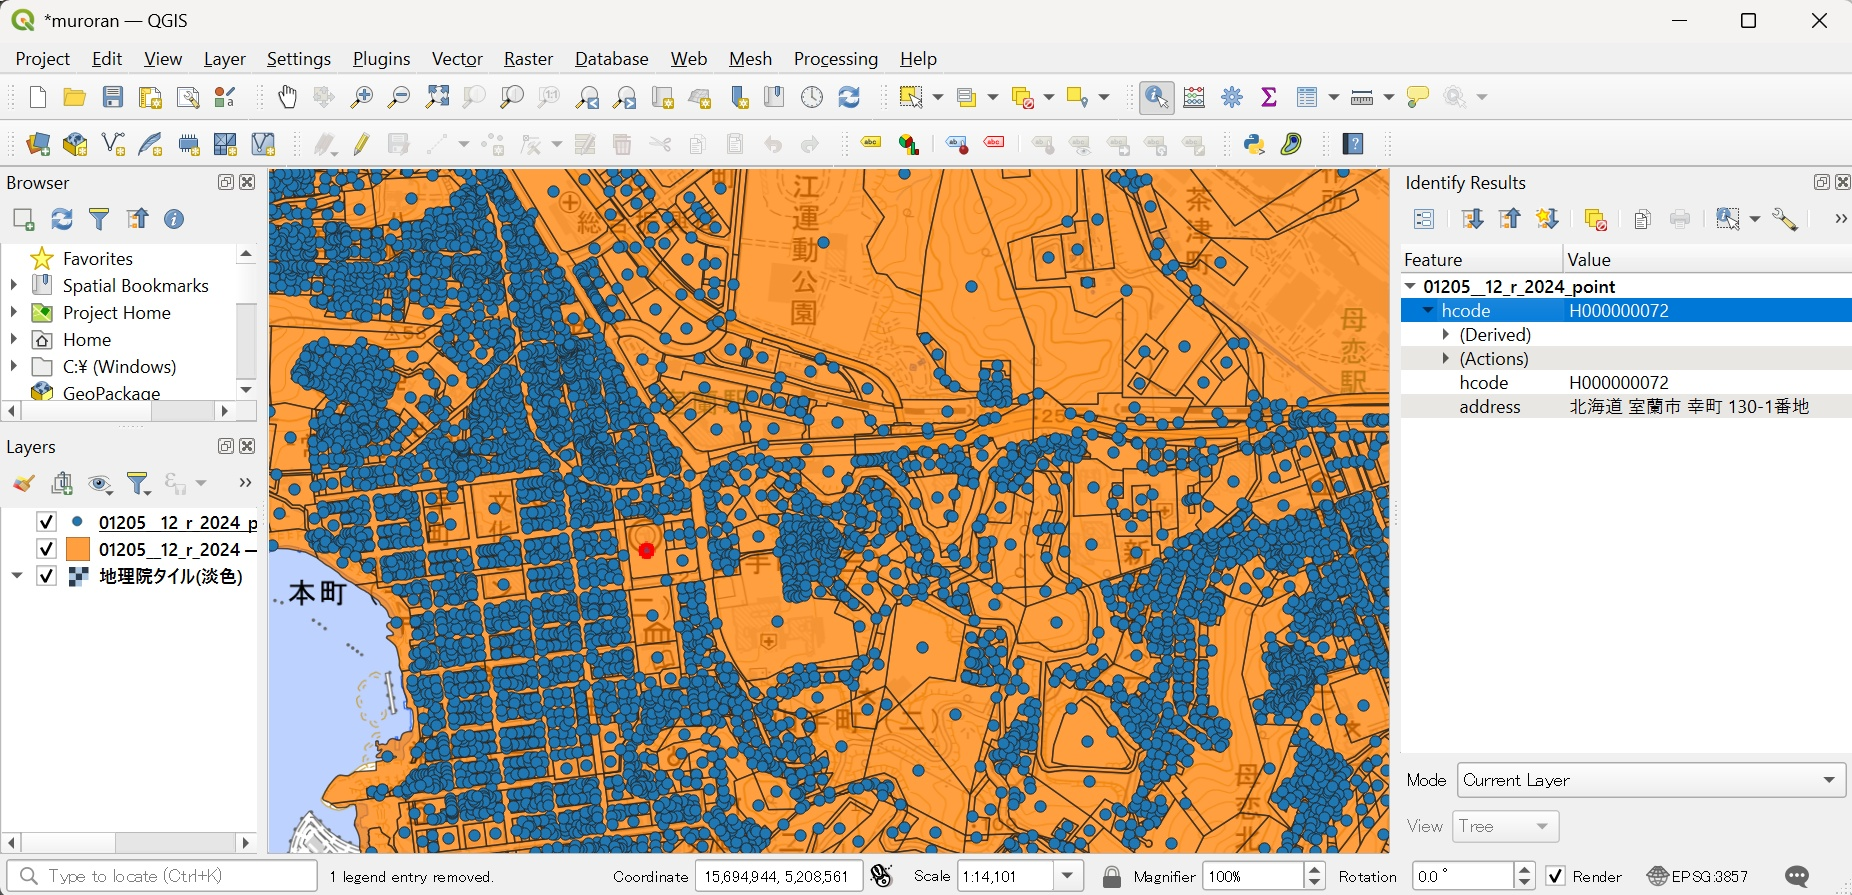
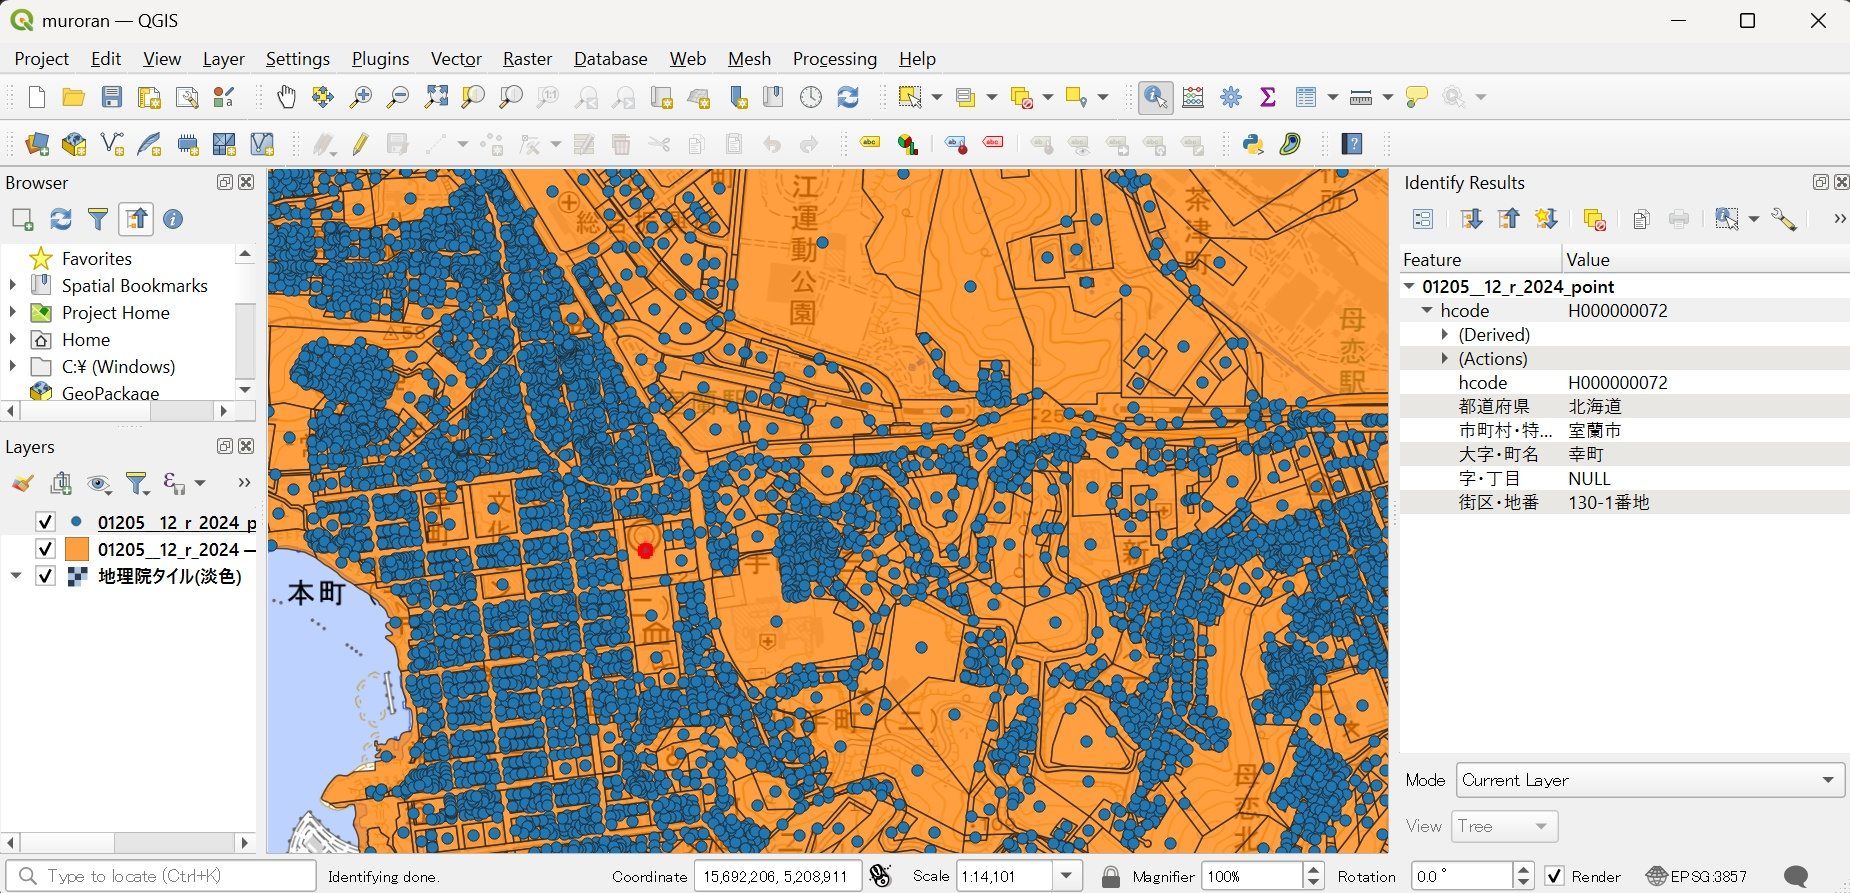
Added dataset options.

diff --git a/jageocoder_dbcreator/convertor.py b/jageocoder_dbcreator/convertor.py
@@ -1,4 +1,5 @@
 import bz2
+from collections import OrderedDict
 import json
 import logging
 import os
@@ -34,8 +35,6 @@ class Convertor(object):
     def __init__(self):
         self.db_dir = Path.cwd() / "db/"
         self.text_dir = None
-        self.title = "(noname)"
-        self.url = ""
         self.pref_code = "00"
         self.do_check = False
         self.fieldmap = {
@@ -50,6 +49,11 @@ class Convertor(object):
             "code": [],
         }
         self.codekey = "hcode"
+        self.dataset_meta = {
+            "id": 99,
+            "title": "(no name)",
+            "url": "",
+        }
 
     def _parse_geojson(self, geojson: Path):
         """
@@ -227,6 +231,12 @@ class Convertor(object):
         logger.debug(f"テキスト形式データを '{output_path}' に出力中...")
         try:
             with bz2.open(output_path, "wt", encoding="utf-8") as fout:
+                # dataset metadata
+                print("# " + json.dumps(
+                    self.dataset_meta,
+                    ensure_ascii=False
+                ), file=fout)
+                # Data body
                 for feature in self._parse_geojson(geojson):
                     names = self._get_names(feature)
                     x, y = self.get_xy(feature["geometry"])
@@ -244,7 +254,7 @@ class Convertor(object):
 
                     self.print_line(
                         fout,
-                        99,
+                        self.dataset_meta["id"],
                         names,
                         x, y,
                         note
@@ -280,7 +290,30 @@ class Convertor(object):
                         if v is not None:
                             code += v
 
-                address = " ".join([n[1] for n in names])
+                address = OrderedDict()
+                i = 0
+                for level in (
+                    (AddressLevel.PREF, "都道府県"),
+                    (AddressLevel.COUNTY, "郡・支庁・島"),
+                    (AddressLevel.CITY, "市町村・特別区"),
+                    (AddressLevel.WARD, "政令市の区"),
+                    (AddressLevel.OAZA, "大字・町名"),
+                    (AddressLevel.AZA, "字・丁目"),
+                    (AddressLevel.BLOCK, "街区・地番"),
+                    (AddressLevel.BLD, "住居番号・枝番"),
+                ):
+                    while i < len(names):
+                        n = names[i]
+                        if n[0] == level[0]:
+                            if level[1] not in address:
+                                address[level[1]] = n[1]
+                            else:
+                                address[level[1]] += f" {n[1]}"
+                            i += 1
+                        else:
+                            break
+
+                # address = " ".join([n[1] for n in names])
                 point_feature = {
                     "type": "Feature",
                     "geometry": {
@@ -289,7 +322,7 @@ class Convertor(object):
                     },
                     "properties": {
                         self.codekey: code,
-                        "address": address,
+                        **address,
                     }
                 }
                 print(
@@ -350,18 +383,13 @@ class Convertor(object):
             targets=(self.pref_code,),
         )
 
+        # テキストファイルからデータベースを作成
+        records = manager.register()
+
         # メタデータを出力
         datasets = Dataset(db_dir=manager.db_dir)
         datasets.create()
-        records = [{
-            "id": 99,
-            "title": self.title,
-            "url": self.url,
-        }]
         datasets.append_records(records)
-
-        # テキストファイルからデータベースを作成
-        manager.register()
 
         # 検索インデックスを作成
         manager.create_index()
@@ -443,29 +471,3 @@ class Convertor(object):
             line += ',{}'.format(str(note))
 
         print(line, file=fp)
-
-
-if __name__ == "__main__":
-    convertor = Convertor()
-    convertor.title = "東京歴史地図"
-    convertor.url = ""
-    convertor.codekey = "tokyo15ku"
-    convertor.pref_code = "13"
-
-    convertor.fieldmap["pref"] = ["=東京都"]
-    convertor.fieldmap["city"] = ["shi"]
-    convertor.fieldmap["ward"] = ["ku"]
-    convertor.fieldmap["oaza"] = ["chomei"]
-    convertor.fieldmap["aza"] = ["{chome}丁目"]
-    convertor.fieldmap["block"] = ["{banchi}番地"]
-    convertor.fieldmap["bld"] = ["go"]
-    convertor.fieldmap["code"] = ["FID"]
-
-    convertor.point_geojson([
-        Path(__file__).absolute().parent.parent / "testdata/15ku_wgs84.geojson"
-    ])
-
-    convertor.text_dir = Path.cwd() / "texts/"
-    convertor.convert([
-        Path(__file__).absolute().parent.parent / "testdata/15ku_wgs84.geojson"
-    ])

diff --git a/jageocoder_dbcreator/data_manager.py b/jageocoder_dbcreator/data_manager.py
@@ -97,7 +97,7 @@ class DataManager(object):
 
         datasets.append_records(records)
 
-    def register(self) -> None:
+    def register(self) -> List[dict]:
         """
         Process prefectures in the target list.
 
@@ -106,6 +106,8 @@ class DataManager(object):
           and output them to the temp file,
         - Then, write them to the database.
         """
+        datasets = {}
+
         # Initialize AddressNode table
         self.address_nodes = AddressNodeTable(db_dir=self.db_dir)
         self.address_nodes.create()
@@ -118,11 +120,22 @@ class DataManager(object):
         # Register from files
         for prefcode in self.targets:
             self.open_tmpfile()
-            self.sort_data(prefcode=prefcode)
+            dataset_meta = self.sort_data(prefcode=prefcode)
+            if dataset_meta is not None:
+                dataset_id = dataset_meta["id"]
+                if dataset_id in datasets and \
+                        dataset_meta != datasets[dataset_id]:
+                    raise RuntimeError(
+                        f"同一のID({dataset_id})で異なる内容のデータセットがあります")
+
+                datasets[dataset_id] = dataset_meta
+
             self.write_database()
 
         if len(self.node_array) > 0:
             self.address_nodes.append_records(self.node_array)
+
+        return list(datasets.values())
 
     def create_index(self) -> None:
         """
@@ -146,7 +159,7 @@ class DataManager(object):
 
         self.tmp_text = tempfile.TemporaryFile(mode='w+t')
 
-    def sort_data(self, prefcode: str) -> None:
+    def sort_data(self, prefcode: str) -> dict:
         """
         Read records from text files that matches the specified
         prefecture code, sort the records,
@@ -173,6 +186,7 @@ class DataManager(object):
         temp_files = []
         lines = []
         size = 0
+        meta = None
         for filename in glob.glob(
                 os.path.join(self.text_dir, prefcode + '_*.txt.bz2')):
             logger.debug("'{}' を処理中...".format(
@@ -181,6 +195,14 @@ class DataManager(object):
             with bz2.open(filename, mode='rt', encoding="utf-8") as fin:
                 for line in fin:
                     if line[0] == '#':  # Skip as comment
+                        try:
+                            obj = json.loads(line[1:])
+                            if "id" in obj and "title" in obj and "url" in obj:
+                                meta = obj
+
+                        except json.decoder.JSONDecodeError:
+                            pass
+
                         continue
 
                     names = self.re_name_level.findall(line)
@@ -211,6 +233,7 @@ class DataManager(object):
             os.remove(fname)
 
         logger.debug("   完了．")
+        return meta
 
     def write_database(self) -> None:
         """

diff --git a/jageocoder_dbcreator/__main__.py b/jageocoder_dbcreator/__main__.py
@@ -1,4 +1,5 @@
 import logging
+import sys
 
 from docopt import docopt
 
@@ -10,6 +11,7 @@ Jageocoder 用住所データベースファイル作成ツール
 Usage:
   {p} ( -h | --help )
   {p} convert [-d] [--text-dir=<dir>] [--db-dir=<dir>] \
+[--id=<id>] [--title=<title>] [--url=<url>] \
 [--codekey=<codekey>] [--code=<attrs>] \
 [--pref=<attrs>] [--county=<attrs>] [--city=<attrs>] \
 [--ward=<attrs>] [--oaza=<attrs>] [--aza=<attrs>] \
@@ -24,9 +26,12 @@ Options:
   -h --help         このヘルプを表示
   -d --debug        デバッグ用情報を出力
   --text-dir=<dir>  テキスト形式データを出力するディレクトリを指定
-  --db-dir=<dir>    辞書データベース出力ディレクトリを指定 [default: ./db]
+  --db-dir=<dir>    辞書データベース出力ディレクトリを指定 [default: './db']
+  --id=<id>         データセットのIDを1から99の整数で指定 [default: 99]
+  --title=<title>   データセットのタイトルを指定 [default: '(no name)']
+  --url=<url>       データセット詳細のURLを指定
   --output=<file>   チェック結果を出力するファイルを指定
-  --codekey=<key>   固有のコードのキーを指定 [default: hcode]
+  --codekey=<key>   固有のコードのキーを指定 [default: 'hcode']
   --code=<attrs>    固有のコードを含む属性
   --pref=<attrs>    都道府県名とする属性、または固定値
   --county=<attrs>  郡・支庁・島名とする属性、または固定値
@@ -99,6 +104,22 @@ def main():
 
     if args["--db-dir"]:
         convertor.db_dir = args["--db-dir"]
+
+    if args["--id"]:
+        id = int(args["--id"])
+        if args["--id"] != str(id) or id < 1 or id >= 100:
+            print(
+                "'--id' は1から99までの整数値を指定してください",
+                file=sys.stderr)
+            exit(0)
+
+        convertor.dataset_meta["id"] = id
+
+    if args["--title"]:
+        convertor.dataset_meta["title"] = args["--title"]
+
+    if args["--url"]:
+        convertor.dataset_meta["url"] = args["--url"]
 
     # ディスパッチ
     if args["check"]:
